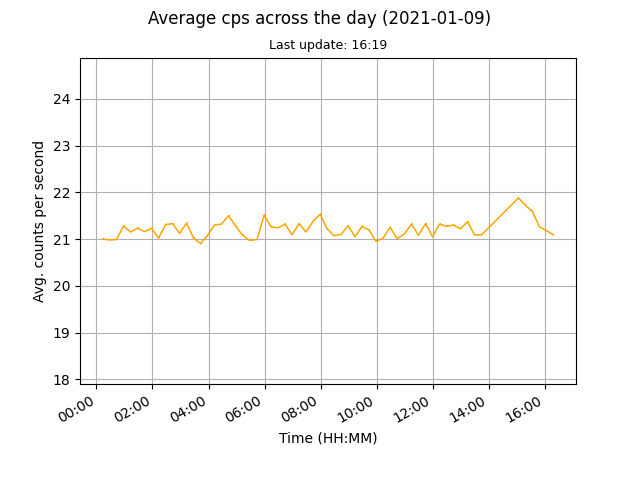
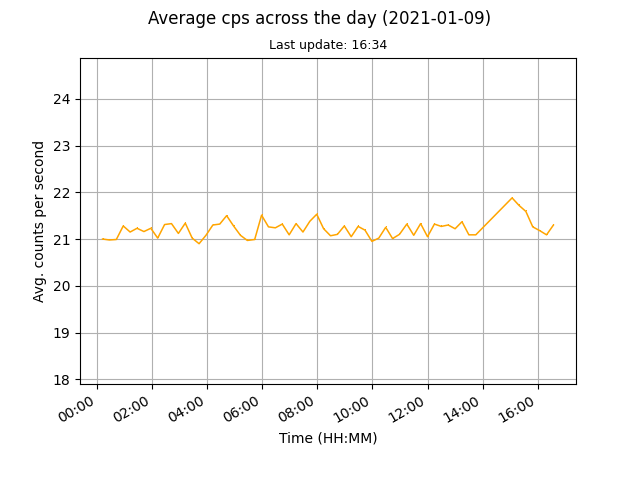
auto data update

diff --git a/docs/index.html b/docs/index.html
@@ -45,8 +45,8 @@
 	
 	<br>
 	
-	<p>Current counts per second (cps): 21.09</p>
-	<p>Last update: 2021-01-09, 16:19</p>
+	<p>Current counts per second (cps): 21.3</p>
+	<p>Last update: 2021-01-09, 16:34</p>
 
 	<p><a href="images/monthly.png"><img src="images/monthly.png" alt="Mothly avg cps data"></a><a href="images/daily.png"><img src="images/daily.png" alt="Daily avg cps data"></a></p>
 	
